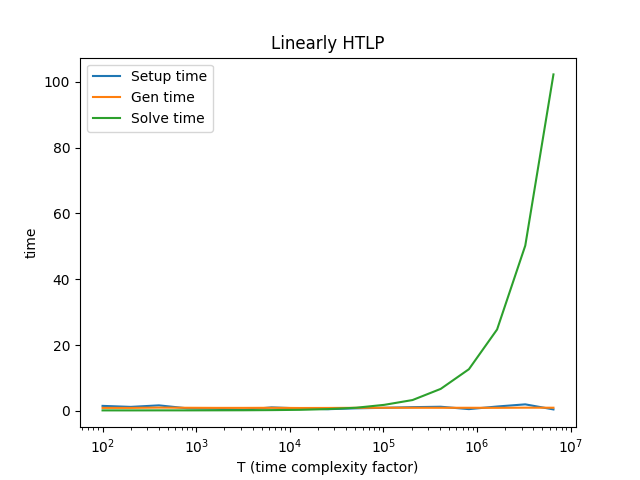
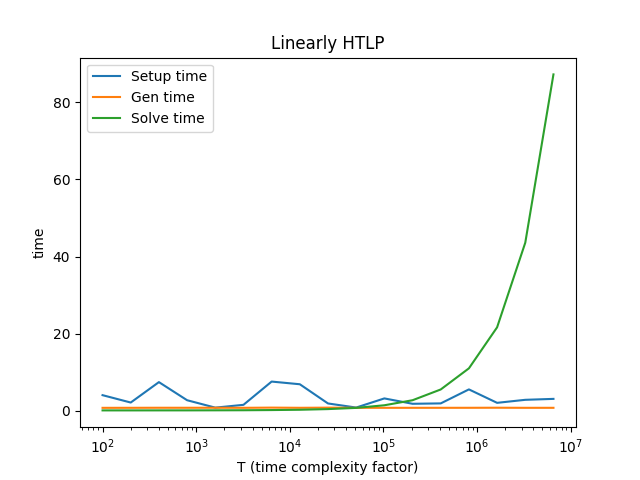
final version

diff --git a/HTLP1.py b/HTLP1.py
@@ -1,0 +1,127 @@
+import secrets
+import time
+
+def gcd(a: int, b: int) -> int:
+    while b != 0:
+        a, b = b, a % b
+    return abs(a)
+
+def sample_Z_star(N):
+    while True:
+        s = secrets.randbelow(N-1) + 1  # returns a random integer in the range [1, N-1]
+        if gcd(s,N) == 1:
+            return s
+
+
+def generate_prime(bits: int) -> int:
+    """
+    Generate a prime number with the specified number of bits.
+    Is forcing to be odd by setting the least significant bit to 1, and ensuring the most significant bit is 1 to get the desired bit length.
+    """
+    while True:
+        candidate = secrets.randbits(bits) | (1 << (bits - 1)) | 1  # OR's forces the first bit to 1 to get higher prime and last bit to be 1 to be odd 
+        if miller_rabin(candidate):
+            return candidate
+
+def miller_rabin(n: int, k: int = 40) -> bool:
+    """
+    Test if a number is prime using the Miller-Rabin probabilistic test.
+    k is the number of rounds (40 rounds gives a negligible error probability).
+    """
+    if n == 2 or n == 3:
+        return True
+    if n < 2 or n % 2 == 0:
+        return False
+
+    # Write n-1 as 2^r * d
+    r, d = 0, n - 1
+    while d % 2 == 0:
+        r += 1
+        d //= 2
+
+    # Witness loop
+    for _ in range(k):
+    
+        a = secrets.randbelow(n - 3) + 2    #Note that secrets.randbelow(n - 3) returns a random integer in the range [0, n-4], so adding 2 shifts it to [2, n-2].
+        
+        x = pow(a, d, n) 
+        
+        if x == 1 or x == n - 1:
+            continue
+            
+        for _ in range(r - 1):
+            x = pow(x, 2, n)
+            if x == n - 1:
+                break
+        else:
+            return False  # Definitely not prime
+            
+    return True  # Probably prime
+
+class LHP:
+
+    def __init__(self,T,N,g,h):
+        self.T = T
+        self.N = N
+        self.g = g
+        self.h = h
+        self.pp = (T,N,g,h)
+
+    def PSetup (l,T):
+        
+        p = generate_prime(l) 
+        print(p)
+        q = generate_prime(l)
+        print(q)
+        
+        N = p*q
+        N2 = N*N
+        g_tilde = sample_Z_star(N)
+        g = (-pow(g_tilde,2,N)) % N
+        temp_exp = pow(2,T,(p - 1)*(q - 1)//2) # calcula 2^T modulo phi(N),  para facilitar a proxima operacao
+        h = pow(g,temp_exp,N) # h só vai ser utilizado numa potencia sua mod (N2), fazemos isto para facilitar
+        return LHP(T,N,g,h)
+    
+    def PGen(pp,s):
+        N2 = pp.N*pp.N
+        r = secrets.randbelow(N2) + 1 # secrets.randbelow(N2) returns 0 to N^2 - 1. Adding 1 shifts it to 1 to N^2.
+        u = pow(pp.g,r,pp.N)
+        v = pow(pp.h,r*pp.N,N2)*pow((1 + pp.N),s,N2) % N2
+        return (u,v)
+    
+    def PSolve(pp,Z):
+        T = pp.T
+        N = pp.N
+        N2 = N*N
+        w = Z[0]
+        v = Z[1]
+        i = 0
+        while i < T:
+            w = pow(w,2,N)
+            i += 1
+        wN = pow(w, N, N2)
+        inv_wN = pow(wN, -1, N2) # facilita a próxima operação
+        s = ((v * inv_wN) % N2 - 1) // N
+        return s
+
+    def PEval(pp,Z_list):
+        N = pp.N
+        N2 = N*N
+        u_prime = 1
+        v_prime = 1
+        for Z in Z_list:                
+            u_prime = (u_prime % N * Z[0] % N) % N
+            v_prime = (v_prime % N2 * Z[1] % N2) % N2
+        return (u_prime,v_prime)
+
+t_start = time.time()
+
+pp = LHP.PSetup(2048,16)
+Z1 = LHP.PGen(pp,142)
+Z2 = LHP.PGen(pp,512)
+Z_prime = LHP.PEval(pp,(Z1,Z2))
+s_prime = LHP.PSolve(pp,Z_prime)
+print(s_prime)
+
+t_end = time.time()
+print(f"  [Solve] Done in {t_end - t_start:.4f}s")

diff --git a/HTLP.py b/HTLP.py
@@ -1,7 +1,8 @@
-from Crypto.Util.number import getPrime, getRandomRange, GCD , inverse, isPrime, getStrongPrime
-import gmpy2
+from Crypto.Util.number import getRandomRange, GCD , inverse
 import time 
 from matplotlib import pyplot as plt
+import subprocess as sp
+
 
 def sample_Z_star(N):
     while True:
@@ -20,12 +21,23 @@ class Partial_HP:
         self.pp = (T,N,g,h)
 
     def PSetup (l,T):
-        p = getStrongPrime(l)
-        q = getStrongPrime(l)
+        while True:
+            p = int(
+                sp.check_output(
+                    ["openssl", "prime", "-generate", "-safe", "-bits", "1024"]
+                )
+            )
+            q = int(
+                sp.check_output(
+                    ["openssl", "prime", "-generate", "-safe", "-bits", "1024"]
+                )
+            )
+            if p != q:
+                break
         N = p*q
         g_tilde = sample_Z_star(N)
         g = (-pow(g_tilde,2,N)) % N
-        temp_exp = pow(2,T,(p - 1)*(q - 1)) # calcula 2^T modulo phi(N)/2,  para facilitar a proxima operacao
+        temp_exp = pow(2,T,(p - 1)*(q - 1)//2) # calcula 2^T modulo phi(N)/2,  para facilitar a proxima operacao
         h = pow(g,temp_exp,N) 
         return Partial_HP(T,N,g,h)
     
@@ -141,7 +153,7 @@ plt.ylabel("time")
 plt.title("Multiplicatively HTLP")
 plt.legend()
 plt.savefig('MHTLP.png')
-print(s_prime)
+print("s' = s1 * s2 = ",s_prime)
 
 T = 100
 T_axis = []
@@ -194,7 +206,7 @@ plt.ylabel("time")
 plt.title("Linearly HTLP")
 plt.legend()
 plt.savefig('LHTLP.png')
-print(s_prime)
+print("s' = s1 * s2 = ",s_prime)
 
 
         

diff --git a/from Crypto.Util.py b/from Crypto.Util.py
@@ -1,0 +1,3 @@
+from Crypto.Util.number import getprime, isprime
+
+print ( getprime(512))
